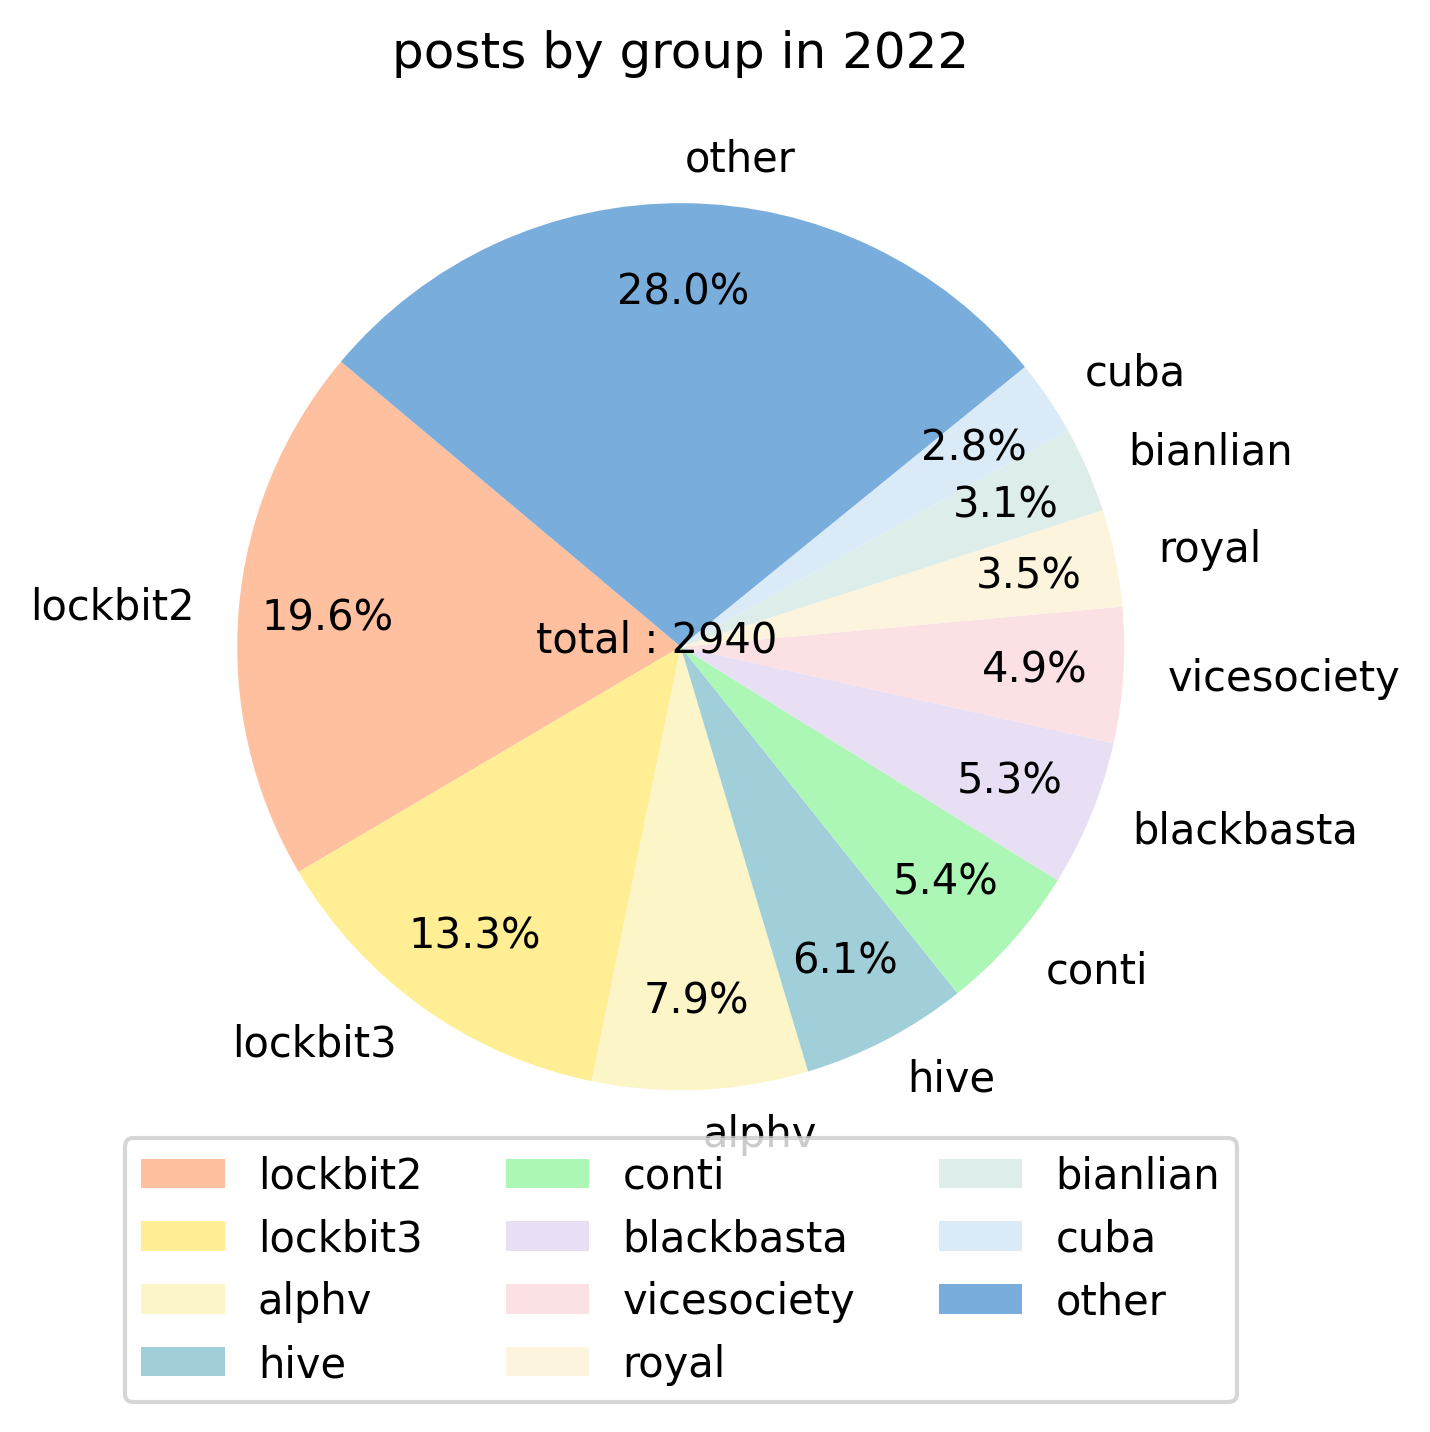
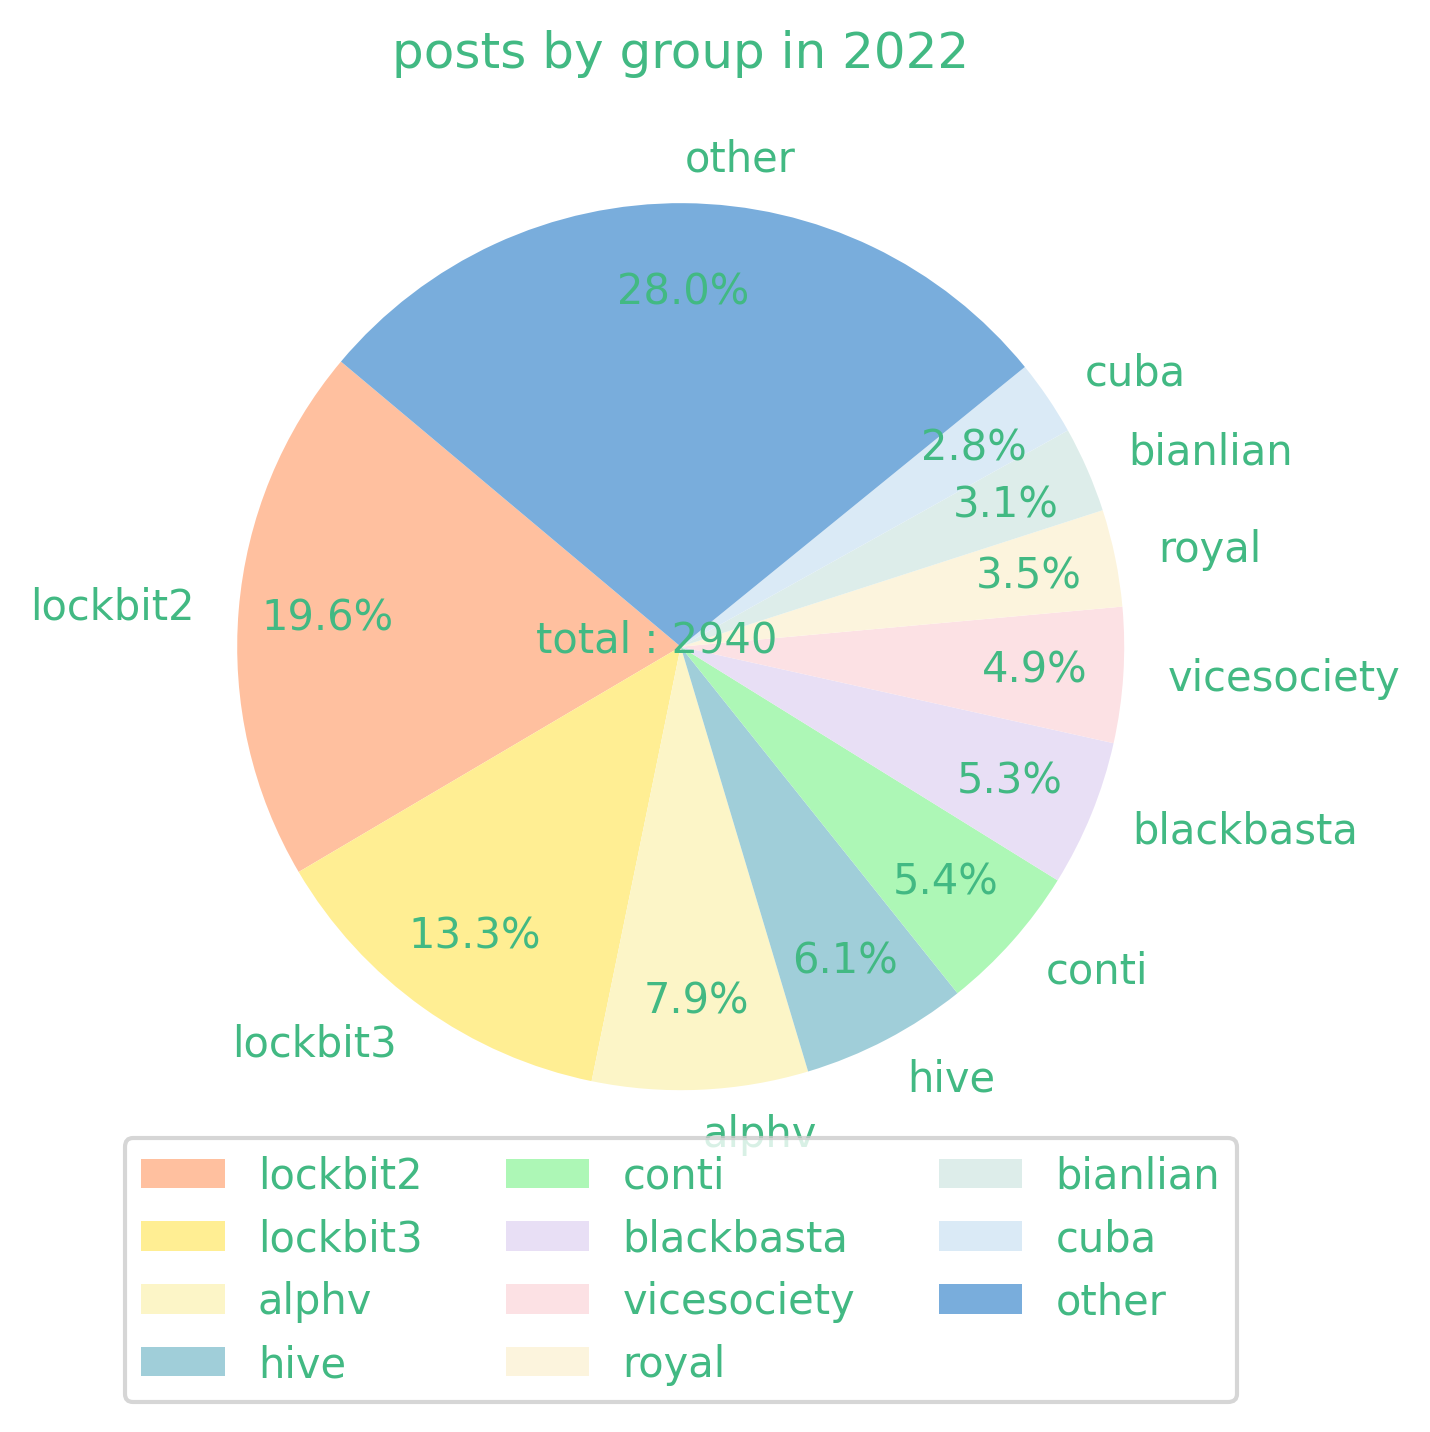
change graphs color

diff --git a/plotting.py b/plotting.py
@@ -16,7 +16,11 @@ def plot_posts_by_group():
     group_counts = [x for x in group_counts if x[0] != 'clop']
     groups = [x[0] for x in group_counts]
     counts = [x[1] for x in group_counts]
-    plt.bar(groups, counts, color="#000000")
+    plt.rcParams['text.color'] = "#42b983"
+    plt.rcParams['axes.labelcolor'] = "#42b983"
+    plt.rcParams['xtick.color'] = "#42b983"
+    plt.rcParams['ytick.color'] = "#42b983"
+    plt.bar(groups, counts, color="#42b983")
     plt.title('posts by group')
     plt.xlabel('group name')
     plt.xticks(rotation=90)
@@ -36,7 +40,11 @@ def plot_posts_by_group_by_year(year):
     group_counts = [x for x in group_counts if x[0] != 'clop']
     groups = [x[0] for x in group_counts]
     counts = [x[1] for x in group_counts]
-    plt.bar(groups, counts, color="#000000")
+    plt.rcParams['text.color'] = "#42b983"
+    plt.rcParams['axes.labelcolor'] = "#42b983"
+    plt.rcParams['xtick.color'] = "#42b983"
+    plt.rcParams['ytick.color'] = "#42b983"
+    plt.bar(groups, counts, color="#42b983")
     plt.title('posts by group in ' + str(year))
     plt.xlabel('group name')
     plt.xticks(rotation=90)
@@ -58,7 +66,11 @@ def plot_posts_by_group_past_7_days():
     group_counts = [x for x in group_counts if x[0] != 'clop']
     groups = [x[0] for x in group_counts]
     counts = [x[1] for x in group_counts]
-    plt.bar(groups, counts, color="#000000")
+    plt.rcParams['text.color'] = "#42b983"
+    plt.rcParams['axes.labelcolor'] = "#42b983"
+    plt.rcParams['xtick.color'] = "#42b983"
+    plt.rcParams['ytick.color'] = "#42b983"
+    plt.bar(groups, counts, color="#42b983")
     plt.title('posts by group last 7 days')
     plt.xlabel('group name')
     plt.xticks(rotation=90)
@@ -91,7 +103,11 @@ def trend_posts_per_day():
     datecount.sort(key=lambda x: x[0])
     dates = [datetime.datetime.strptime(x[0], '%Y-%m-%d').date() for x in datecount]
     counts = [x[1] for x in datecount]
-    plt.plot(dates, counts, color="#000000")
+    plt.rcParams['text.color'] = "#42b983"
+    plt.rcParams['axes.labelcolor'] = "#42b983"
+    plt.rcParams['xtick.color'] = "#42b983"
+    plt.rcParams['ytick.color'] = "#42b983"
+    plt.plot(dates, counts, color="#42b983")
     plt.title('posts per day')
     plt.xlabel('date')
     plt.xticks(rotation=90)
@@ -125,7 +141,11 @@ def trend_posts_per_day_2022():
     datecount.sort(key=lambda x: x[0])
     dates = [datetime.datetime.strptime(x[0], '%Y-%m-%d').date() for x in datecount]
     counts = [x[1] for x in datecount]
-    plt.plot(dates, counts, color="#000000")
+    plt.rcParams['text.color'] = "#42b983"
+    plt.rcParams['axes.labelcolor'] = "#42b983"
+    plt.rcParams['xtick.color'] = "#42b983"
+    plt.rcParams['ytick.color'] = "#42b983"
+    plt.plot(dates, counts, color="#42b983")
     plt.title('posts per day in 2022')
     plt.xlabel('date')
     plt.xticks(rotation=90)
@@ -157,7 +177,11 @@ def trend_posts_per_day_2023():
     datecount.sort(key=lambda x: x[0])
     dates = [datetime.datetime.strptime(x[0], '%Y-%m-%d').date() for x in datecount]
     counts = [x[1] for x in datecount]
-    plt.plot(dates, counts, color="#000000")
+    plt.rcParams['text.color'] = "#42b983"
+    plt.rcParams['axes.labelcolor'] = "#42b983"
+    plt.rcParams['xtick.color'] = "#42b983"
+    plt.rcParams['ytick.color'] = "#42b983"
+    plt.plot(dates, counts, color="#42b983")
     plt.title('posts per day in 2023')
     plt.xlabel('date')
     plt.xticks(rotation=90)
@@ -183,6 +207,10 @@ def pie_posts_by_group():
     othercount = sum(othercounts)
     topgroups.append('other')
     topcounts.append(othercount)
+    plt.rcParams['text.color'] = "#42b983"
+    plt.rcParams['axes.labelcolor'] = "#42b983"
+    plt.rcParams['xtick.color'] = "#42b983"
+    plt.rcParams['ytick.color'] = "#42b983"
     colours = ['#ffc09f','#ffee93','#fcf5c7','#a0ced9','#adf7b6','#e8dff5','#fce1e4','#fcf4dd','#ddedea','#daeaf6','#79addc','#ffc09f','#ffee93','#fcf5c7','#adf7b6']
     plt.pie(topcounts, labels=topgroups, autopct='%1.1f%%', startangle=140, labeldistance=1.1, pctdistance=0.8, colors=colours)
     plt.legend(loc='lower center', bbox_to_anchor=(0.5, -0.2), ncol=3)
@@ -209,6 +237,10 @@ def pie_posts_by_group_by_year(year):
     othercount = sum(othercounts)
     topgroups.append('other')
     topcounts.append(othercount)
+    plt.rcParams['text.color'] = "#42b983"
+    plt.rcParams['axes.labelcolor'] = "#42b983"
+    plt.rcParams['xtick.color'] = "#42b983"
+    plt.rcParams['ytick.color'] = "#42b983"
     colours = ['#ffc09f','#ffee93','#fcf5c7','#a0ced9','#adf7b6','#e8dff5','#fce1e4','#fcf4dd','#ddedea','#daeaf6','#79addc','#ffc09f','#ffee93','#fcf5c7','#adf7b6']
     plt.pie(topcounts, labels=topgroups, autopct='%1.1f%%', startangle=140, labeldistance=1.1, pctdistance=0.8, colors=colours)
     plt.legend(loc='lower center', bbox_to_anchor=(0.5, -0.2), ncol=3)

diff --git a/docs/allposts.md b/docs/allposts.md
@@ -4821,4 +4821,4 @@ _All `4810` posts_
 | 2020-06-10 | [`Leaks Company Birch Communications inc.`](https://google.com/search?q=Leaks+Company+Birch+Communications+inc.) | [ragnarlocker](profiles.md?id=ragnarlocker) |
 | 2020-01-12 | [`Windemuller`](https://google.com/search?q=Windemuller) | [lorenz](profiles.md?id=lorenz) |
 
-Last update : _Thursday 29/12/2022 20.39 (UTC)_
+Last update : _Thursday 29/12/2022 20.54 (UTC)_

diff --git a/docs/recentposts.md b/docs/recentposts.md
@@ -206,4 +206,4 @@
 | 2022-12-22 | [`CGG.COM`](https://google.com/search?q=CGG.COM) | [clop](profiles.md?id=clop) |
 | 2022-12-22 | [`STERIS.COM`](https://google.com/search?q=STERIS.COM) | [clop](profiles.md?id=clop) |
 
-Last update : _Thursday 29/12/2022 20.39 (UTC)_
+Last update : _Thursday 29/12/2022 20.54 (UTC)_

diff --git a/docs/README.md b/docs/README.md
@@ -35,5 +35,5 @@ Check recent ransomware posts [`here`](recentposts.md)
 
 
 
-Last update : _Thursday 29/12/2022 20.39 (UTC)_
+Last update : _Thursday 29/12/2022 20.54 (UTC)_
 

diff --git a/docs/profiles.md b/docs/profiles.md
@@ -8190,4 +8190,4 @@ _`aka fonix`_
  --- 
 
 
-Last update : _Thursday 29/12/2022 20.39 (UTC)_
+Last update : _Thursday 29/12/2022 20.54 (UTC)_
